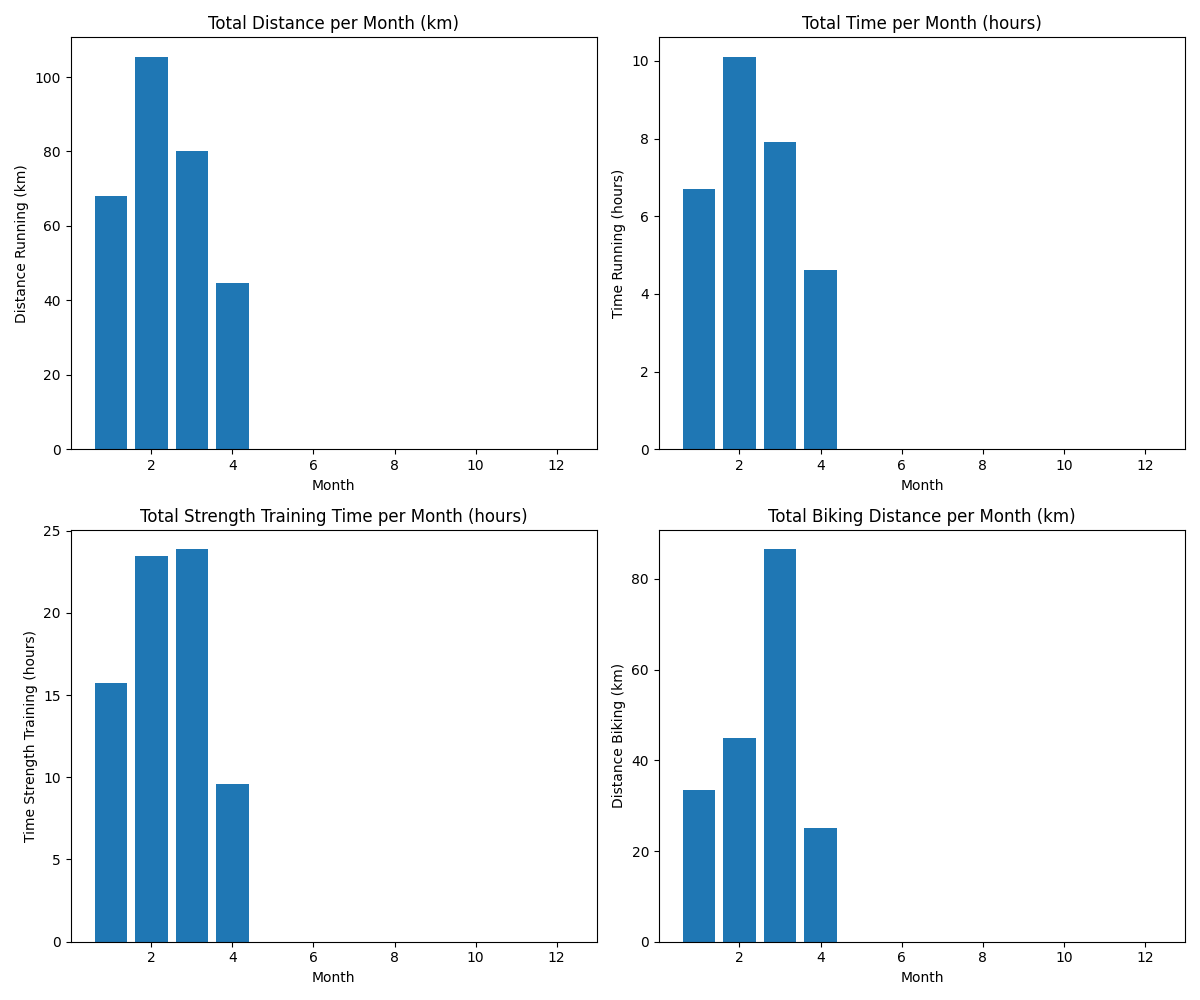
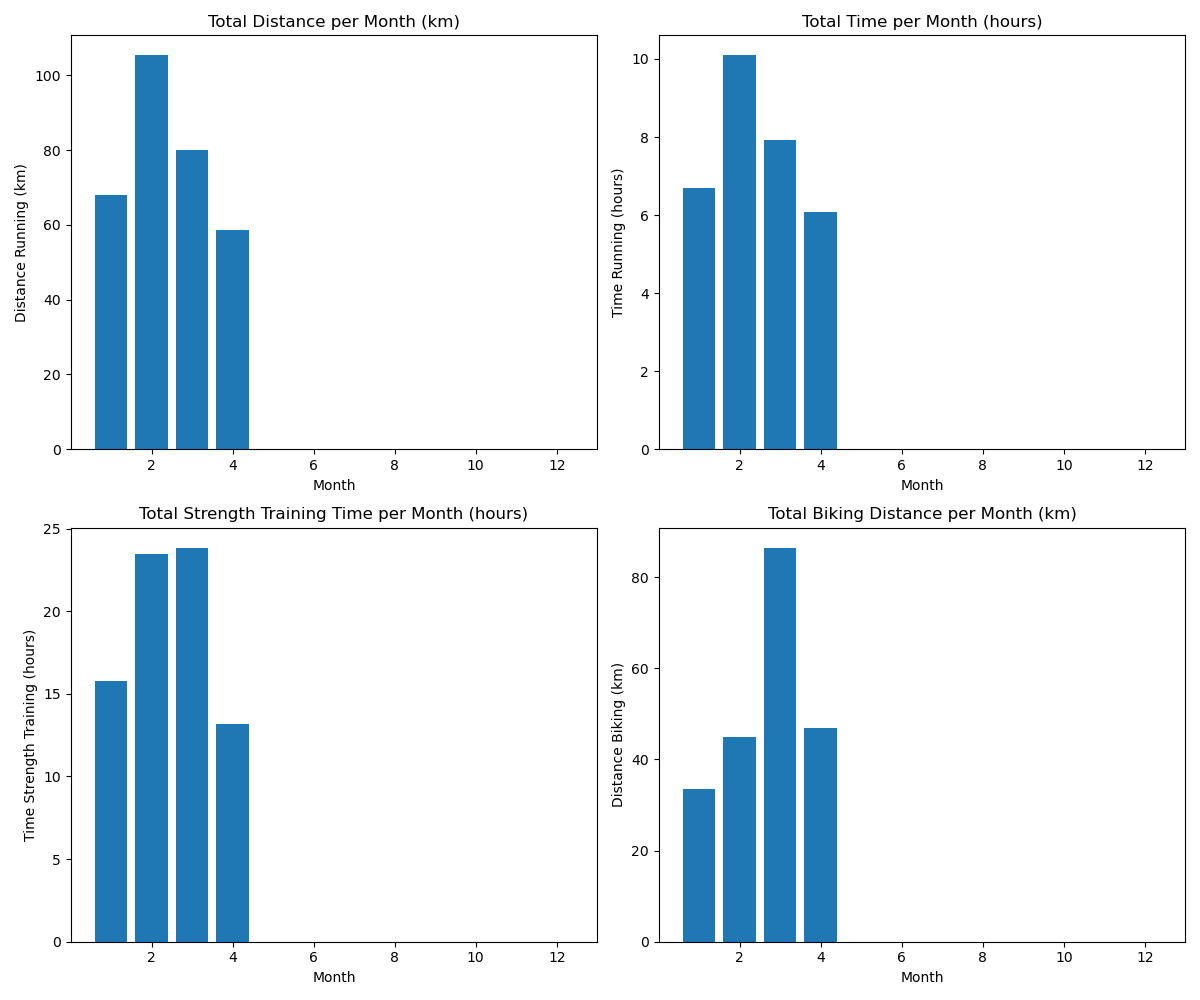
sport update 16.4

diff --git a/Sport/Sport_2026_report.md b/Sport/Sport_2026_report.md
@@ -3,20 +3,20 @@
 ## Sport Counts
 | type   |   count |
 |:-------|--------:|
-| F      |      83 |
+| F      |      87 |
 | K      |       5 |
 | L      |       1 |
-| Total  |      89 |
+| Total  |      93 |
 
 ## Summary
-- **Total distance run on treadmill:** 292.01 km
+- **Total distance run on treadmill:** 306.01 km
 - **Total distance run outside:** 6.14 km
-- **Total distance cycled:** 190.00 km
+- **Total distance cycled:** 212.00 km
 - **Total distance swimming:** 0.00 km
-- **Total time spent on strength training:** 72h 40min
+- **Total time spent on strength training:** 76h 14min
 
 ## Average Speeds
-- **Treadmill running:** 10.16 km/h
+- **Treadmill running:** 10.14 km/h
 - **Outside running:** 10.96 km/h
-- **Cycling:** 23.43 km/h
+- **Cycling:** 23.10 km/h
 - **Swimming:** nan km/h
